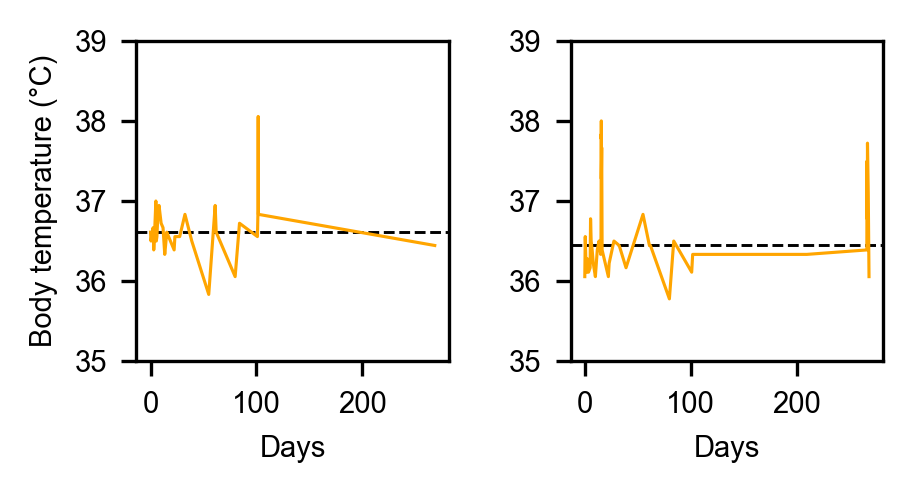
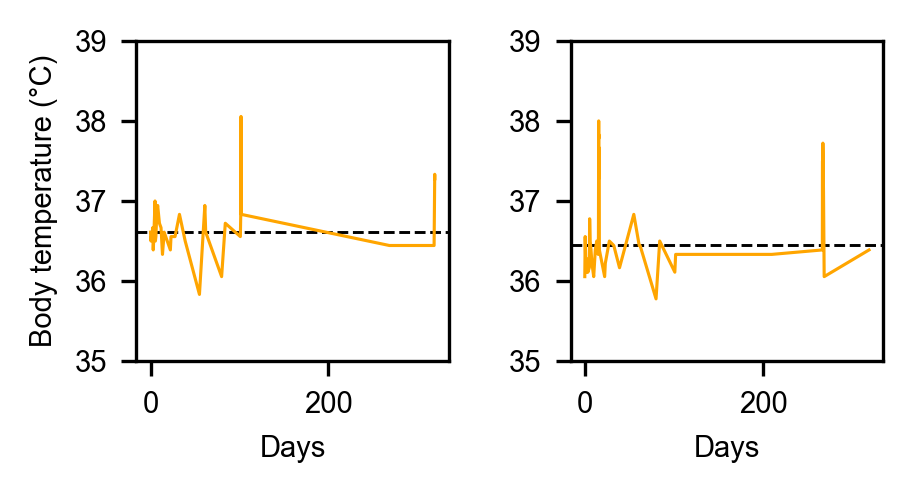
update health stats

diff --git a/health_stats_Di_Shaohe.md b/health_stats_Di_Shaohe.md
@@ -3,7 +3,7 @@ layout: player_stats
 title: Di and Shaohe Health
 author: Shaohe Wang
 author_url: https://scholar.google.com/citations?user=R_-kJV4AAAAJ&hl=en
-date: 2022-01-18
+date: 2022-02-19
 ---
 
 ### 左：吴笛；右：王少鹤
